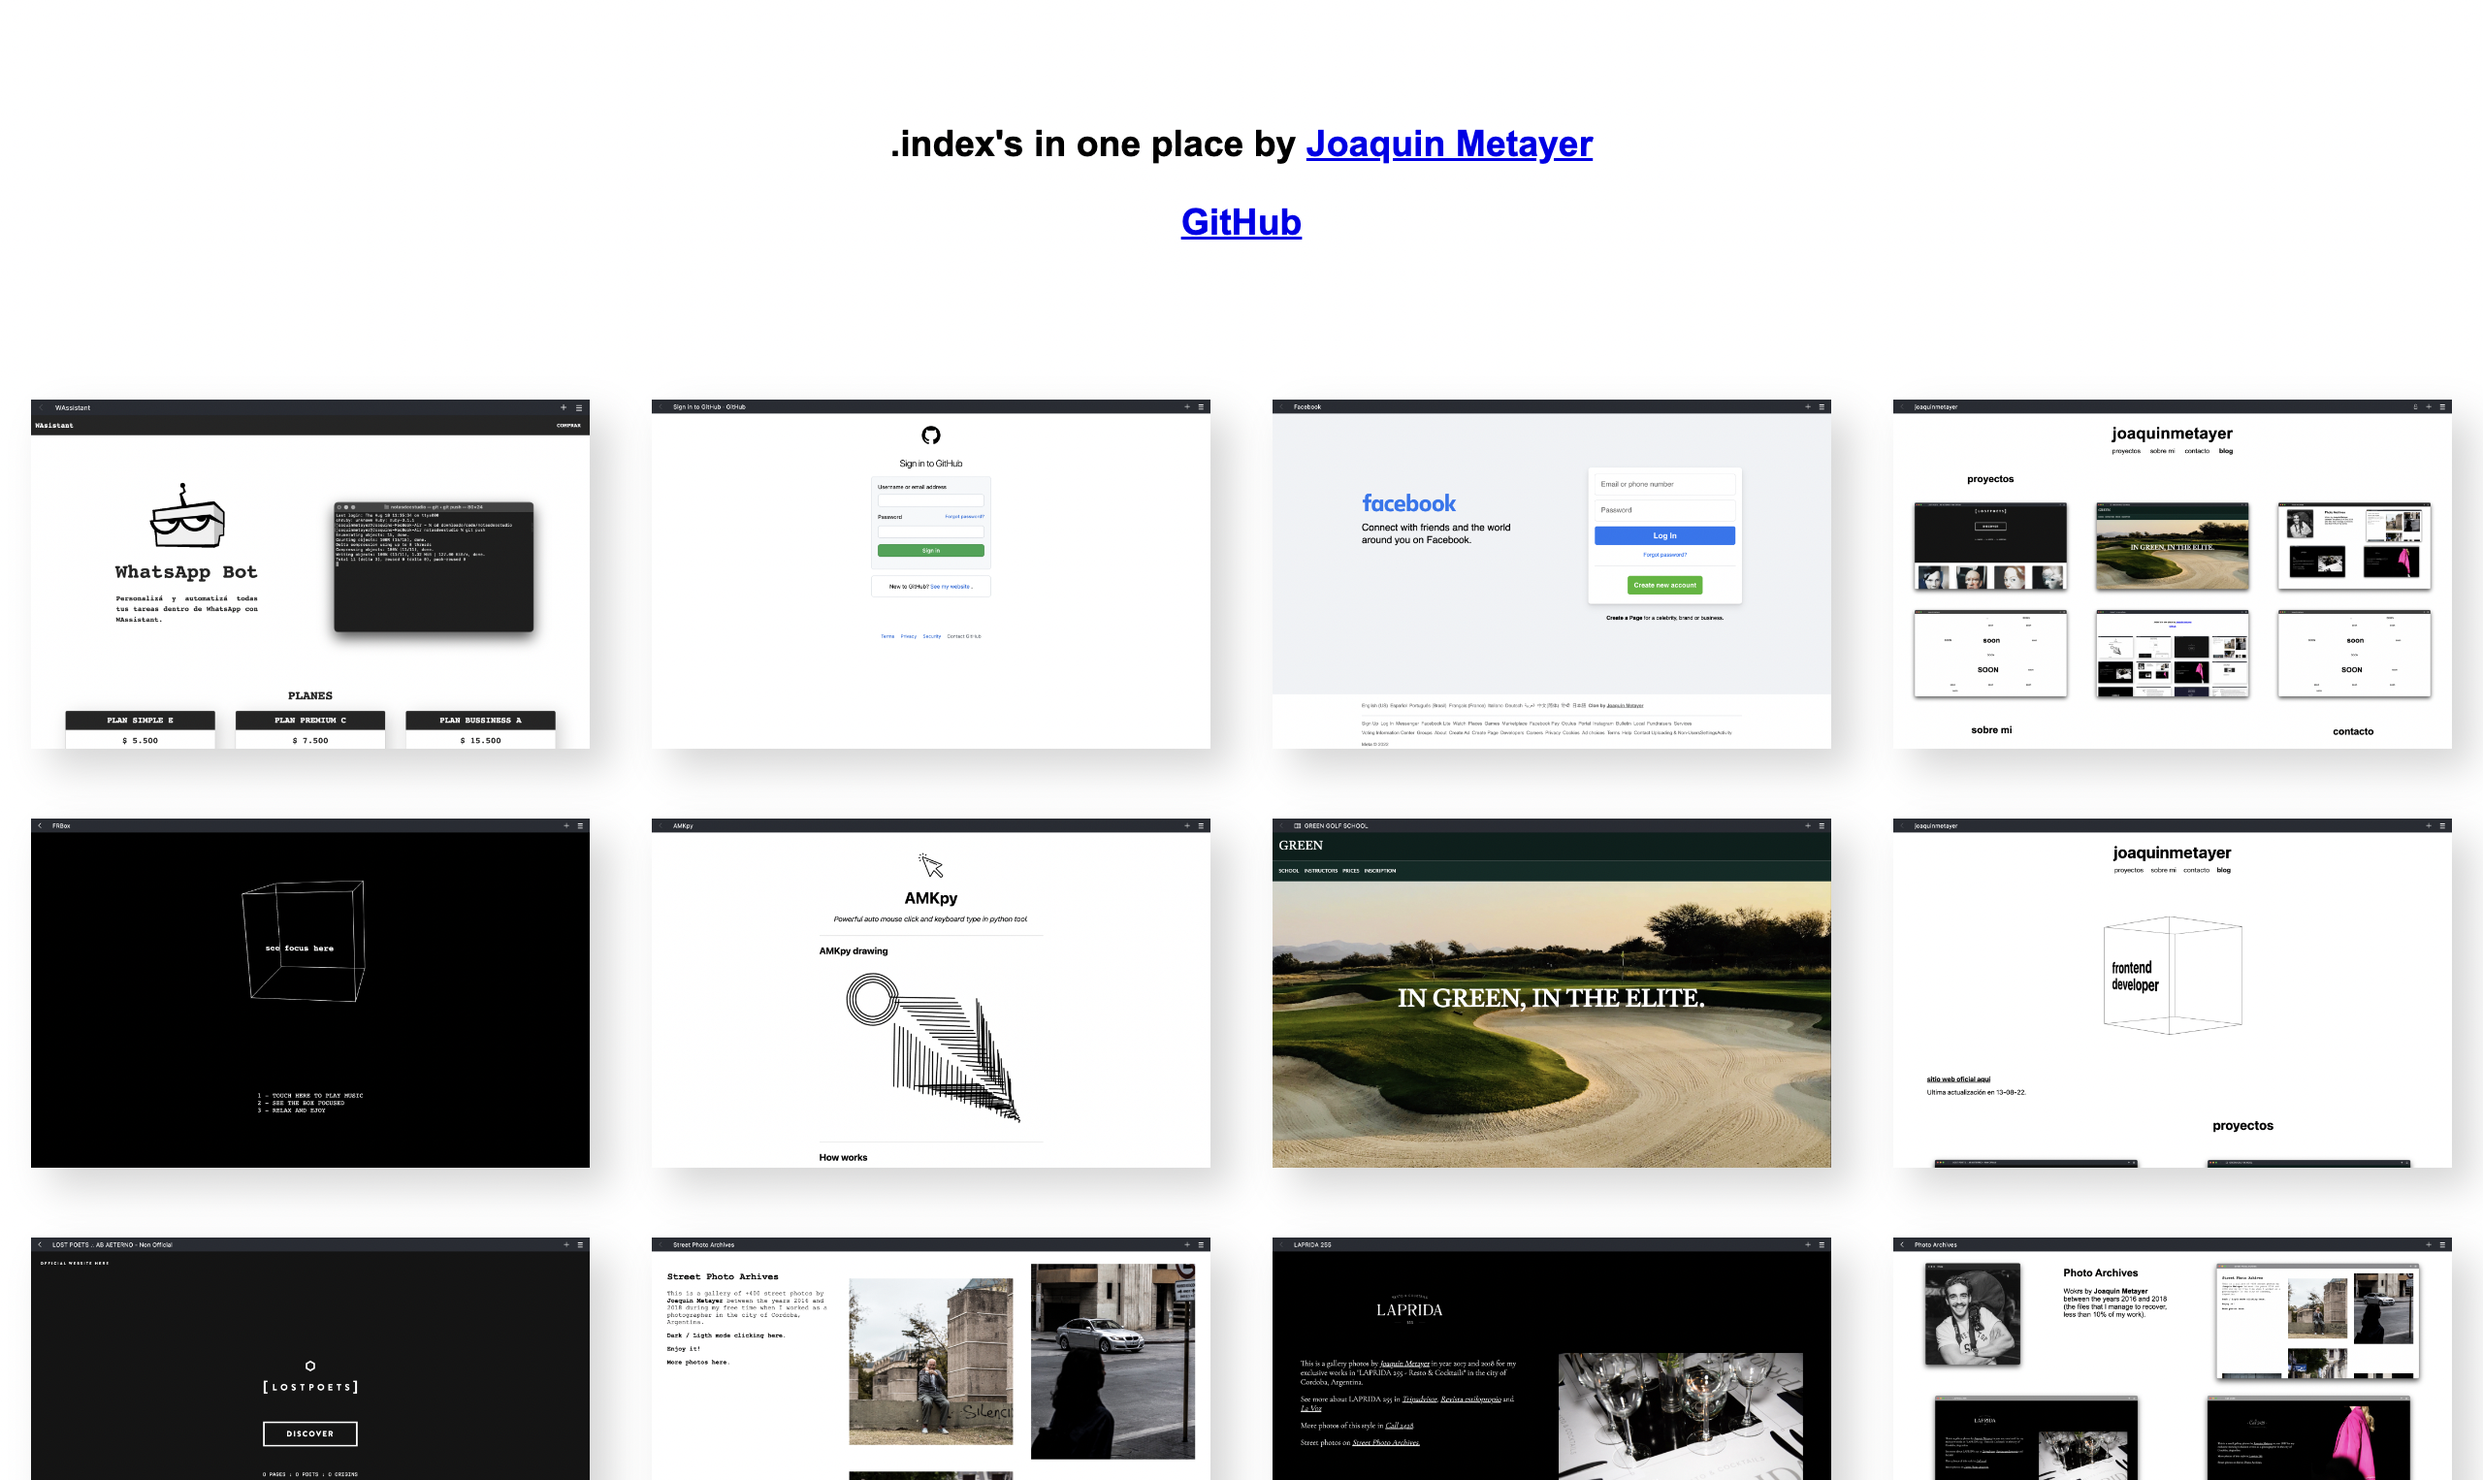
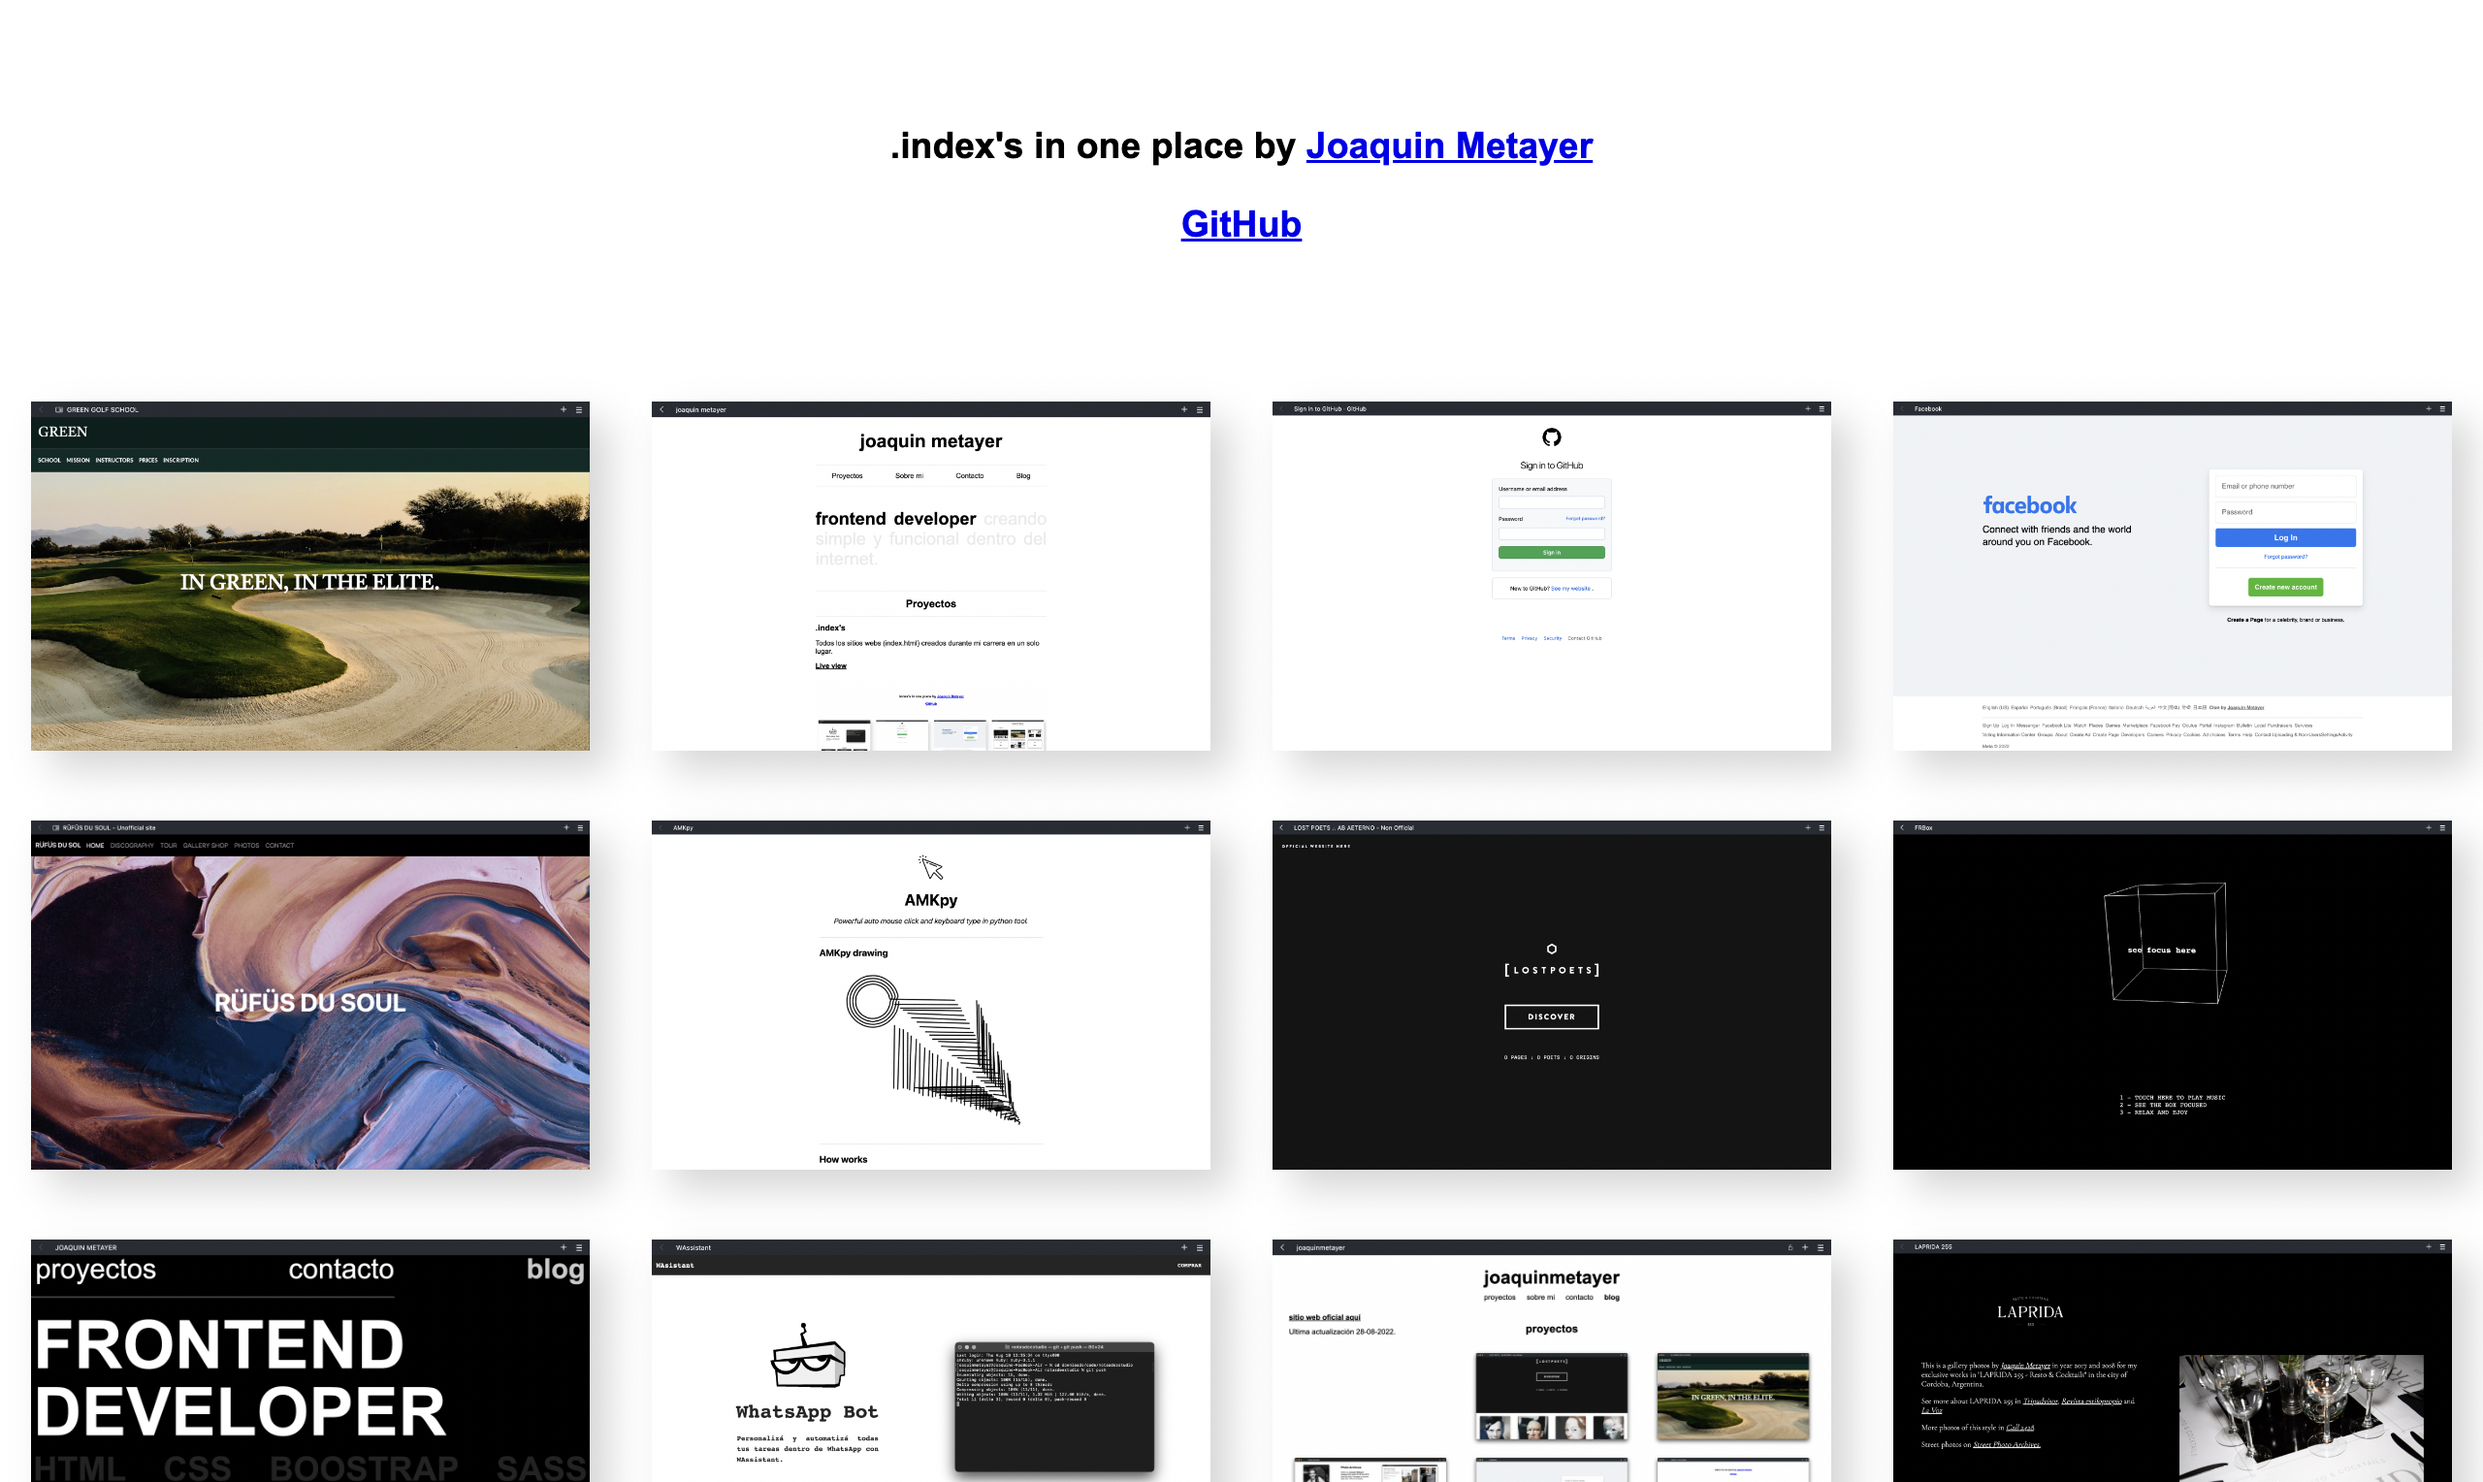
122

diff --git a/index.html b/index.html
@@ -50,6 +50,27 @@
     <h2>Proyectos</h2>
 
     <hr>
+    <h3>GREEN Golf School</h3>
+    <p>Landing page "GREEN Golf School" aplicando HTML y CSS con SASS.</p>
+    <h4>
+        <a href="https://github.com/joaquinmetayer/greengolf" target="_blank">Code</a>
+        <a href="https://jmgreengolf.netlify.app/" target="_blank">Live view</a>
+    </h4>
+    <a href="https://jmgreengolf.netlify.app/" target="_blank">
+        <img src="./images/Screen Shot 2022-09-04 at 16.35.47.png">
+    </a>
+
+    <hr>
+    <h3>Facebook Login</h3>
+    <p>Clon Facebook Login aplicando HTML y CSS.</p>
+    <h4>
+        <a href="https://github.com/joaquinmetayer/clonfacebooklogin" target="_blank">Code</a>
+        <a href="https://jmclonfacebooklogin.netlify.app/" target="_blank">Live view</a>
+    </h4>
+    <a href="https://jmclonfacebooklogin.netlify.app/" target="_blank">
+        <img src="./images/Screen Shot 2022-09-04 at 16.36.38.png">
+    </a>
+    <hr>
     <h3>.index's</h3>
     <p>Todos los sitios webs (index.html) creados durante mi carrera en un solo lugar.</p>
     <h4>
@@ -63,10 +84,10 @@
     <h3>Soon</h3>
     <p>Pronto mas proyectos, trabajando en ellos!</p>
     <h4>
-        <a href="#">Code</a>
-        <a href="#">Live view</a>
+        <a href="#proyectos">Code</a>
+        <a href="#proyectos">Live view</a>
     </h4>
-    <a href="#">
+    <a href="#proyectos">
         <img src="./images/Screen Shot 2022-08-28 at 21.57.11.png">
     </a>
 
